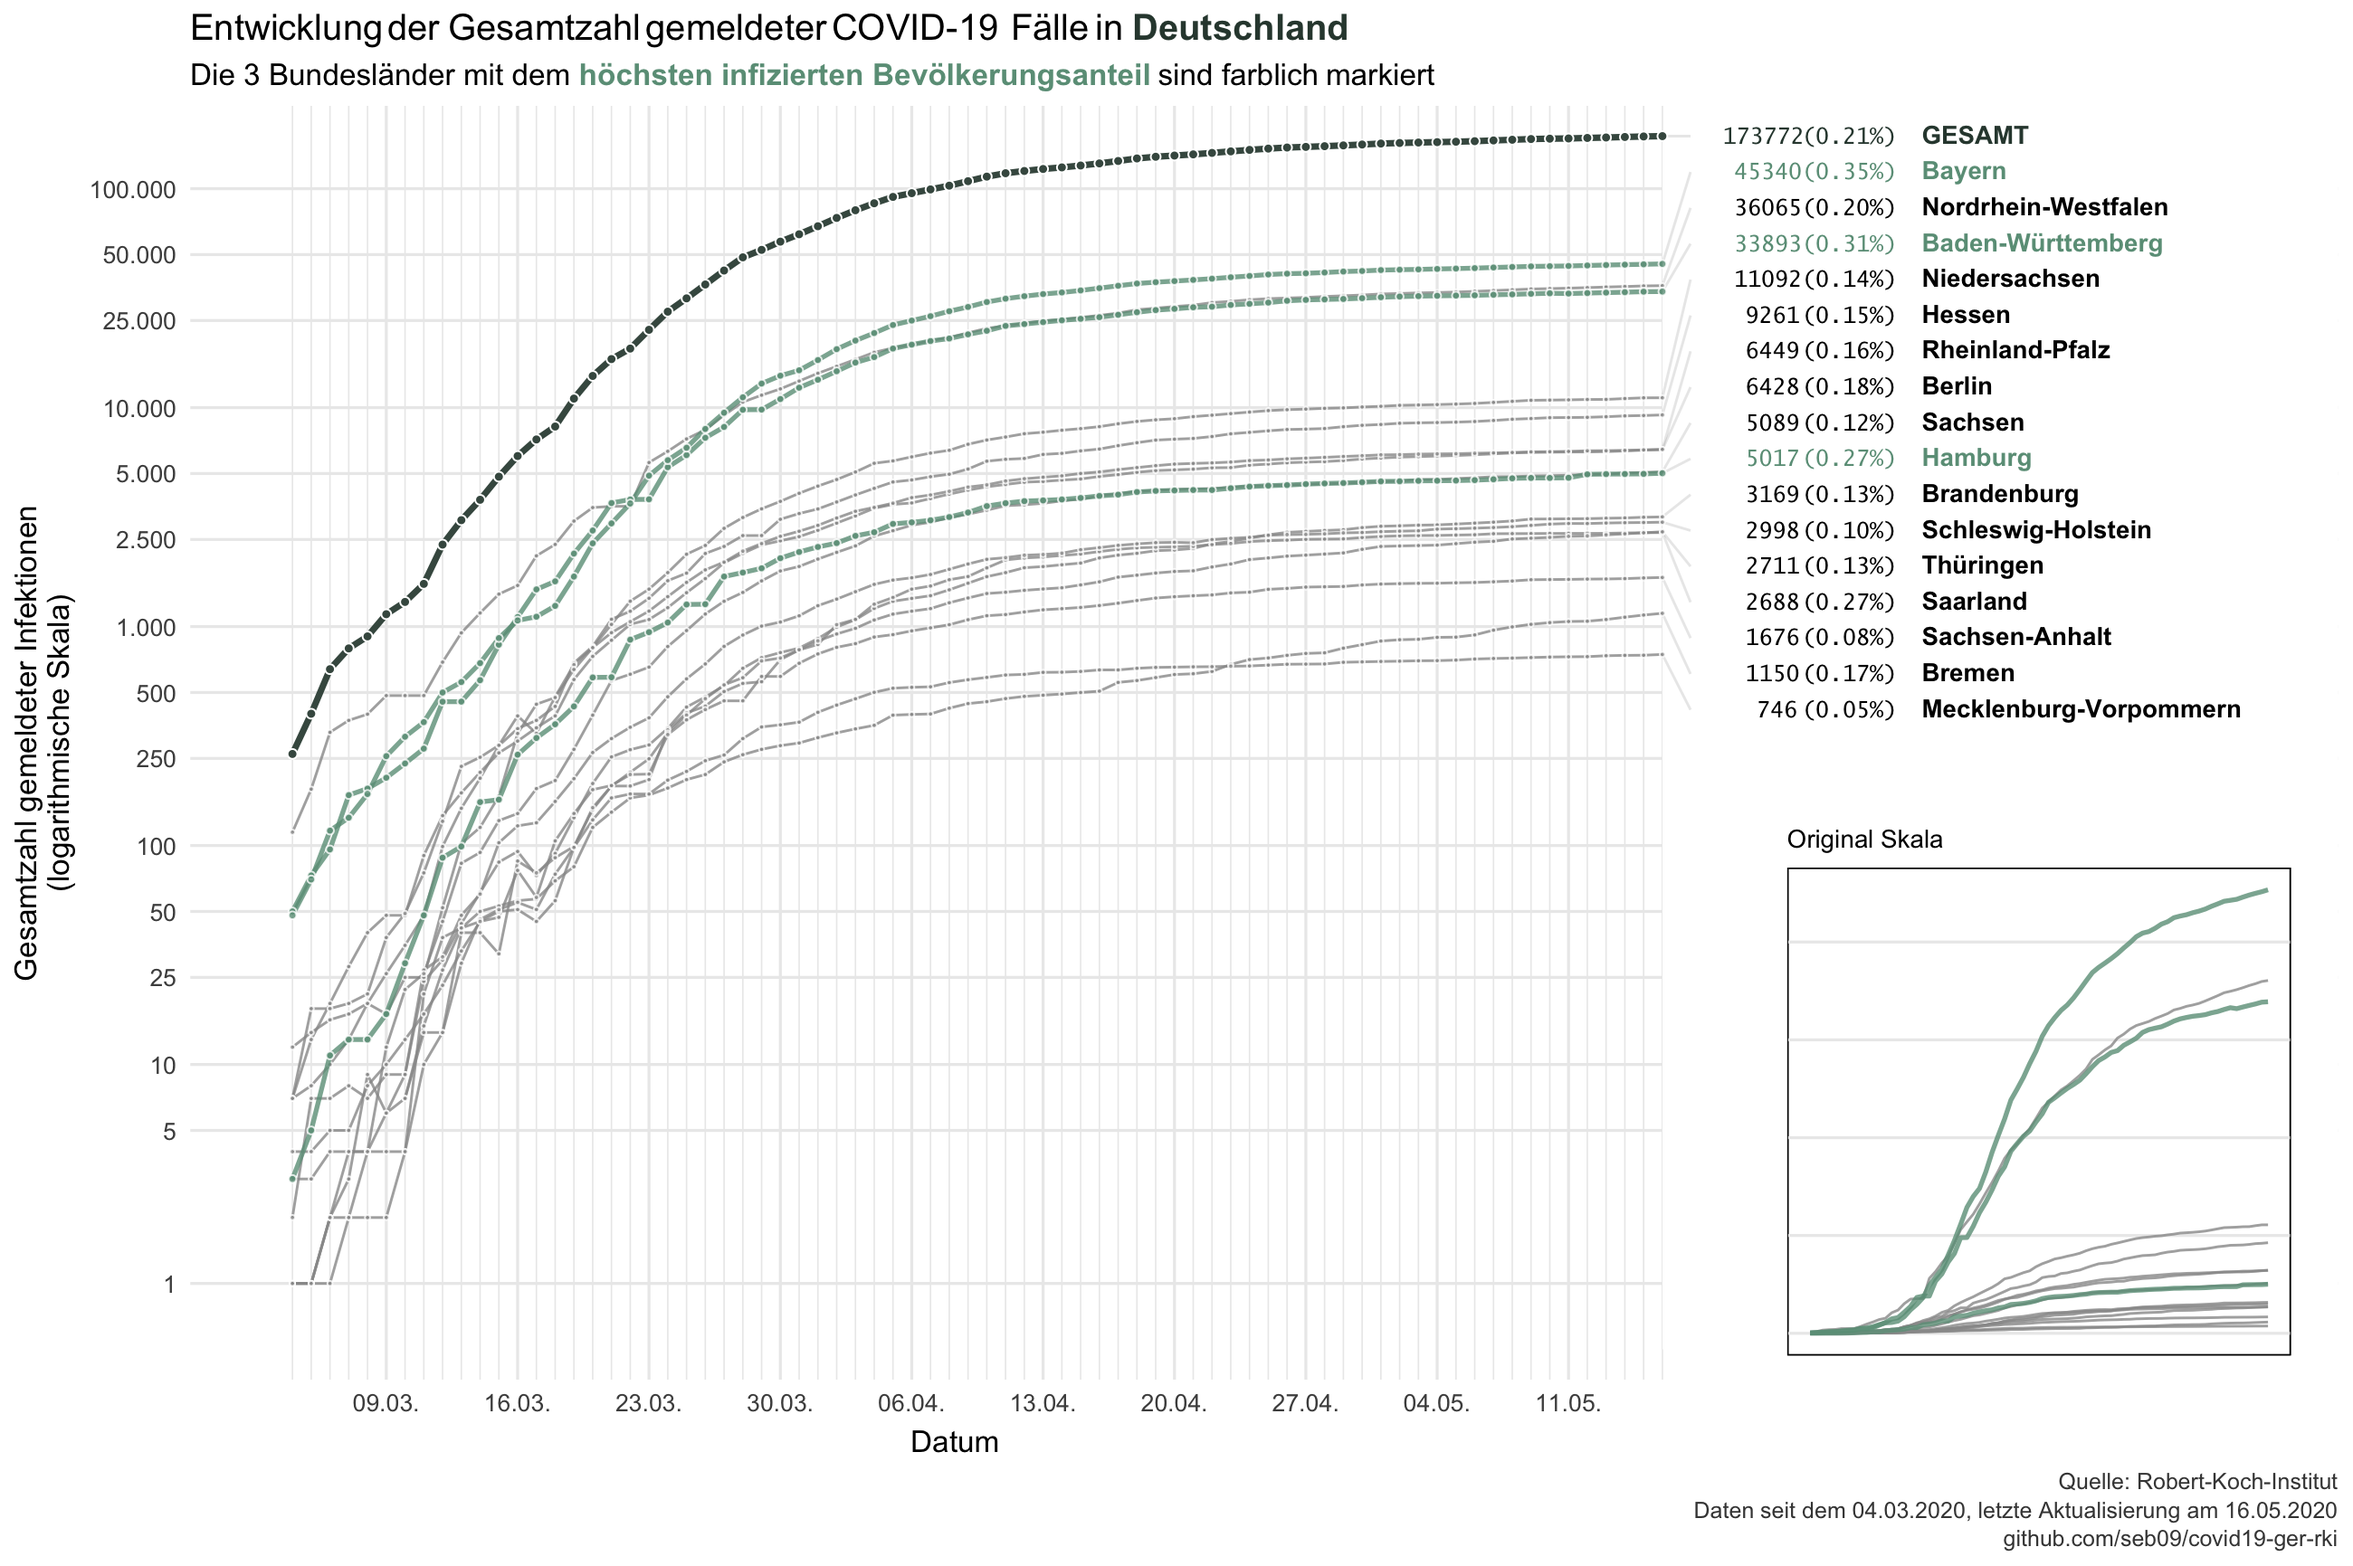
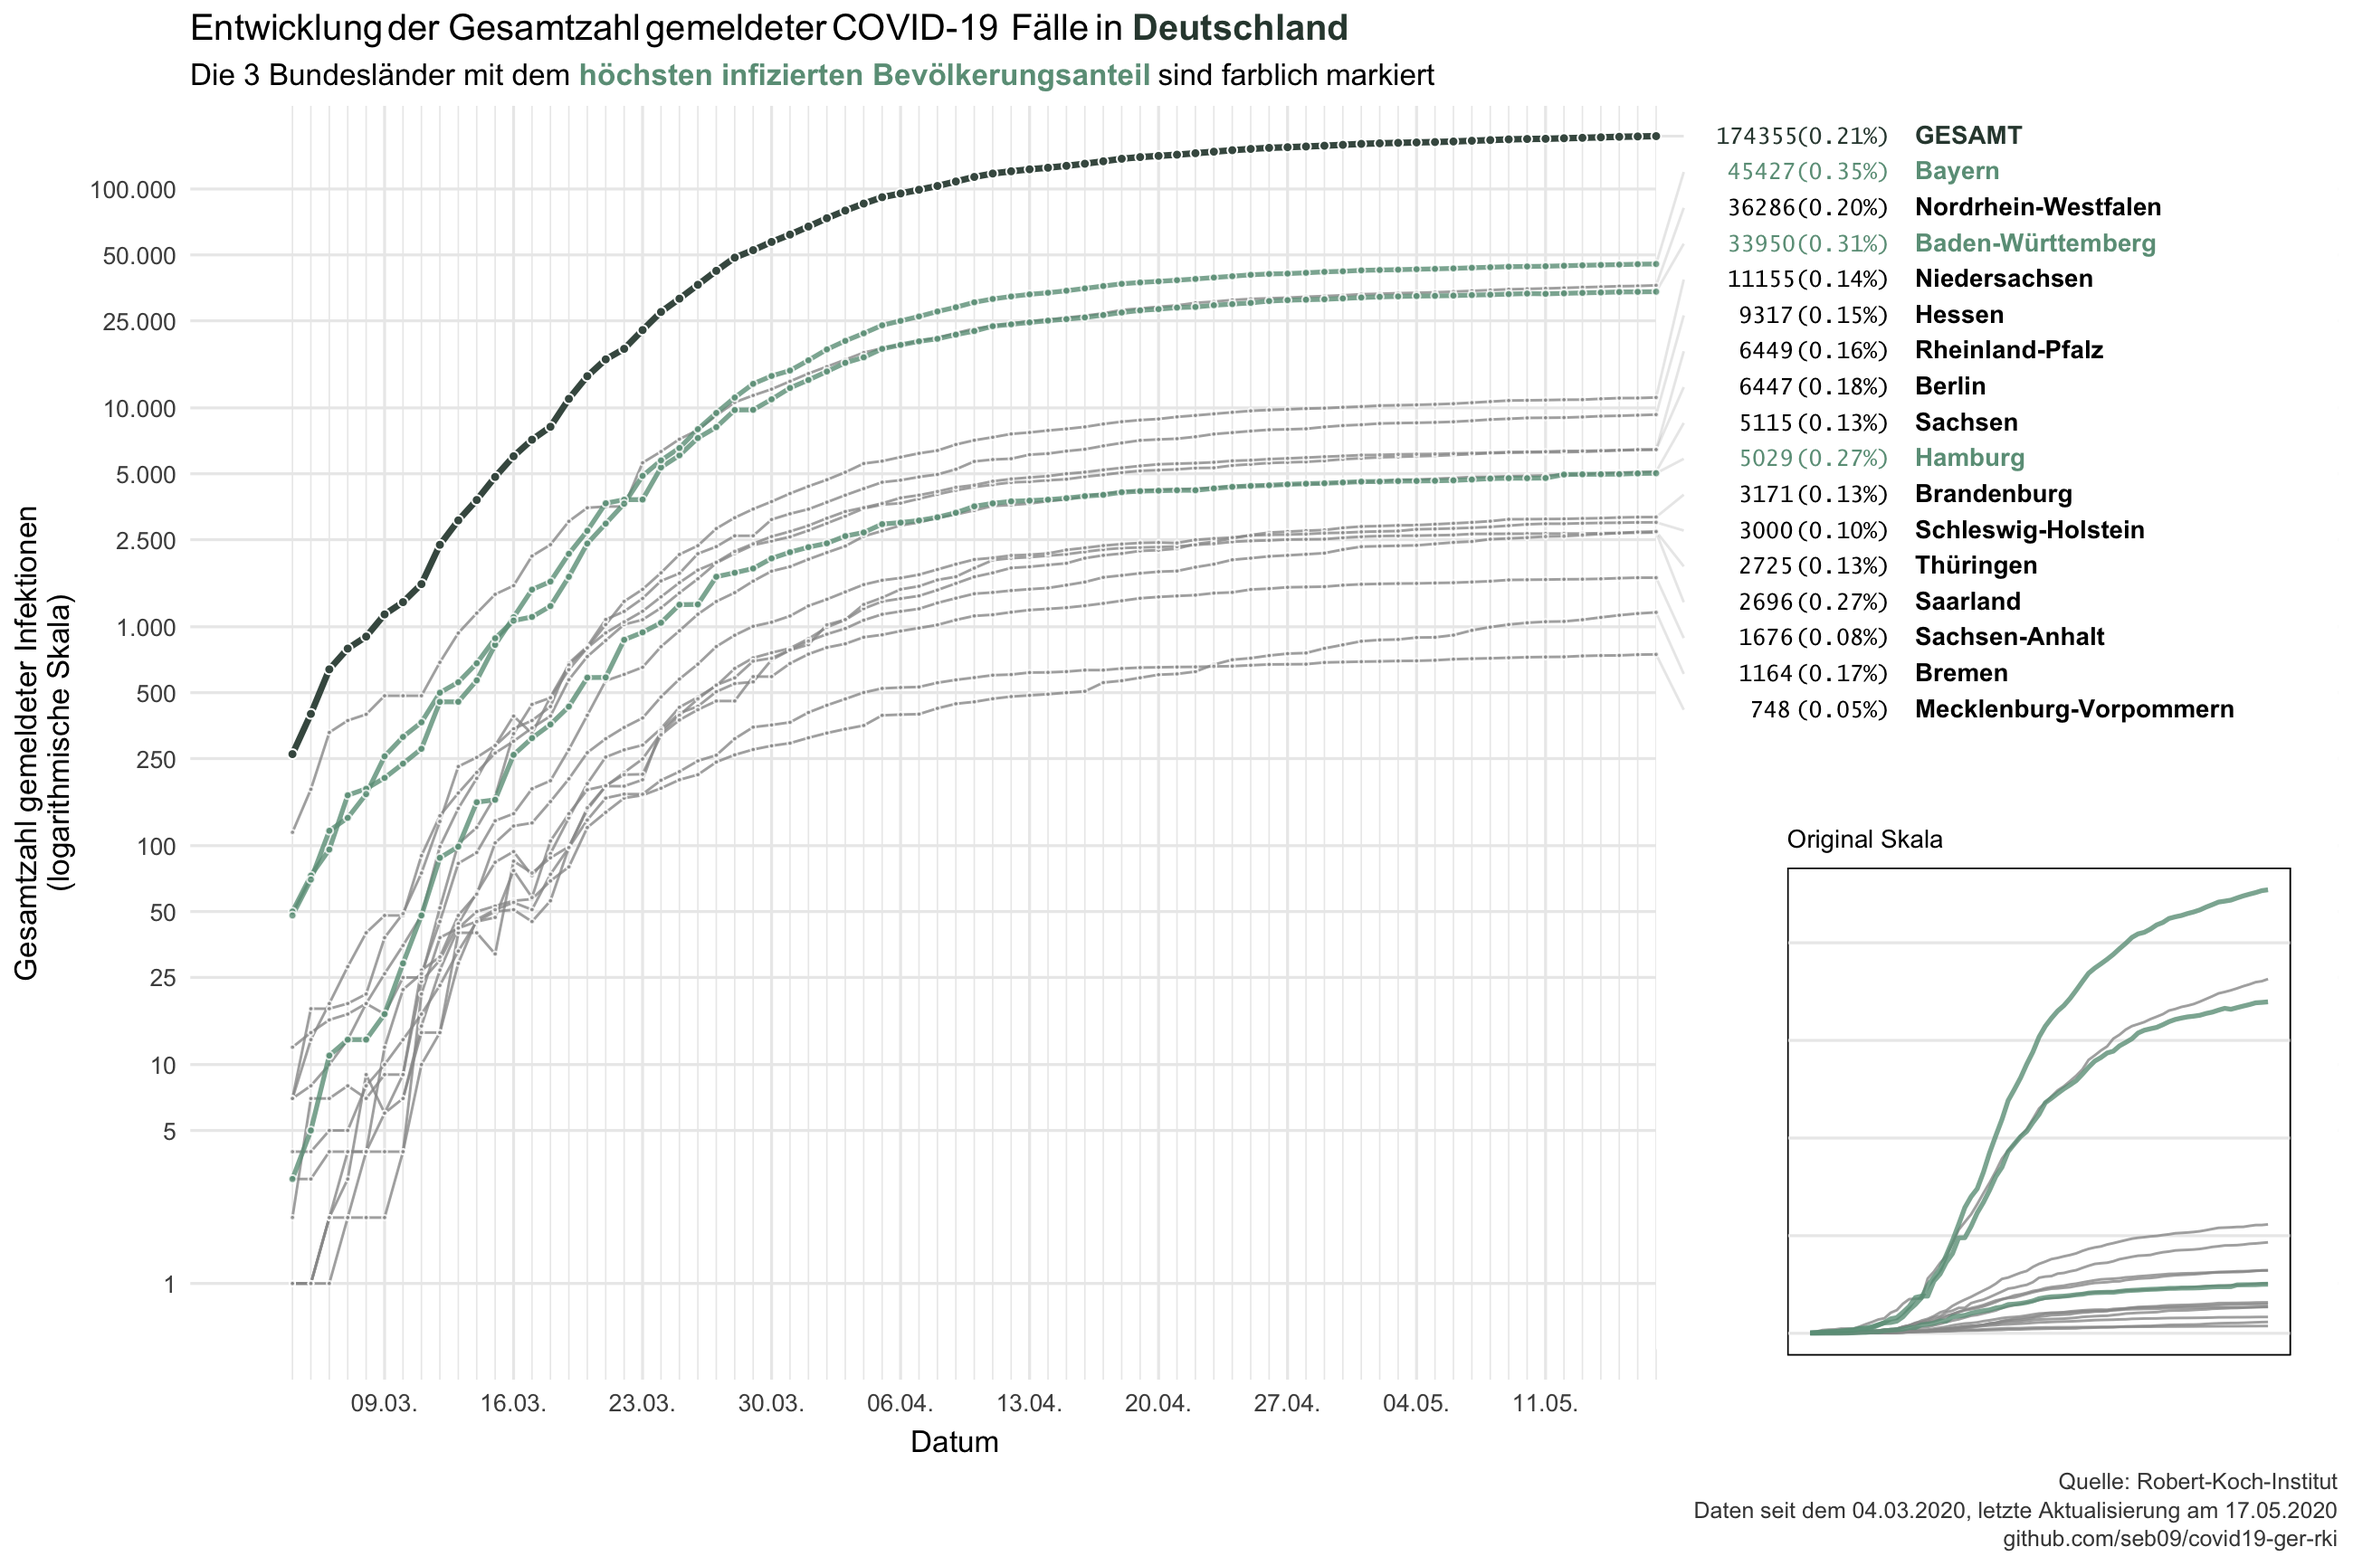
daily update 2020-05-17

diff --git a/README.md b/README.md
@@ -1,6 +1,6 @@
 Data from the Robert-Koch-Institut on COVID-19 in Germany
 ================
-Last update: 2020-05-16
+Last update: 2020-05-18
 
 This repository contains data on reported COVID-19 cases in Germany and
 its federal states that is published daily by the Robert-Koch-Institut
@@ -14,26 +14,26 @@ corona_rki %>%
   print(n = 16)
 ```
 
-    ## # A tibble: 1,178 x 6
+    ## # A tibble: 1,194 x 6
     ##    Datum      Bundesland      Fallzahl Todeszahl Fallzahl_neu Todeszahl_neu
     ##    <date>     <chr>              <dbl>     <dbl>        <dbl>         <dbl>
-    ##  1 2020-05-16 Baden-Württemb…    33893      1644           42            16
-    ##  2 2020-05-16 Bayern             45340      2273          197            13
-    ##  3 2020-05-16 Berlin              6428       181           31             4
-    ##  4 2020-05-16 Brandenburg         3169       149           11             1
-    ##  5 2020-05-16 Bremen              1150        37           21             0
-    ##  6 2020-05-16 Hamburg             5017       231           36             3
-    ##  7 2020-05-16 Hessen              9261       432           57             3
-    ##  8 2020-05-16 Mecklenburg-Vo…      746        20            6             0
-    ##  9 2020-05-16 Niedersachsen      11092       535            5             1
-    ## 10 2020-05-16 Nordrhein-West…    36065      1500           98             7
-    ## 11 2020-05-16 Rheinland-Pfalz     6449       216           36             3
-    ## 12 2020-05-16 Saarland            2688       149            4             2
-    ## 13 2020-05-16 Sachsen             5089       197           28             2
-    ## 14 2020-05-16 Sachsen-Anhalt      1676        54            8             0
-    ## 15 2020-05-16 Schleswig-Hols…     2998       126           10             0
-    ## 16 2020-05-16 Thüringen           2711       137           30             2
-    ## # … with 1,162 more rows
+    ##  1 2020-05-17 Baden-Württemb…    33950      1648           57             4
+    ##  2 2020-05-17 Bayern             45427      2283           87            10
+    ##  3 2020-05-17 Berlin              6447       182           19             1
+    ##  4 2020-05-17 Brandenburg         3171       149            2             0
+    ##  5 2020-05-17 Bremen              1164        37           14             0
+    ##  6 2020-05-17 Hamburg             5029       232           12             1
+    ##  7 2020-05-17 Hessen              9317       435           56             3
+    ##  8 2020-05-17 Mecklenburg-Vo…      748        20            2             0
+    ##  9 2020-05-17 Niedersachsen      11155       544           63             9
+    ## 10 2020-05-17 Nordrhein-West…    36286      1505          221             5
+    ## 11 2020-05-17 Rheinland-Pfalz     6449       216            0             0
+    ## 12 2020-05-17 Saarland            2696       149            8             0
+    ## 13 2020-05-17 Sachsen             5115       196           26            -1
+    ## 14 2020-05-17 Sachsen-Anhalt      1676        54            0             0
+    ## 15 2020-05-17 Schleswig-Hols…     3000       126            2             0
+    ## 16 2020-05-17 Thüringen           2725       138           14             1
+    ## # … with 1,178 more rows
 
 Data is downloaded each day at 11am from the [website of the
 RKI](https://www.rki.de/DE/Content/InfAZ/N/Neuartiges_Coronavirus/Fallzahlen.html)
